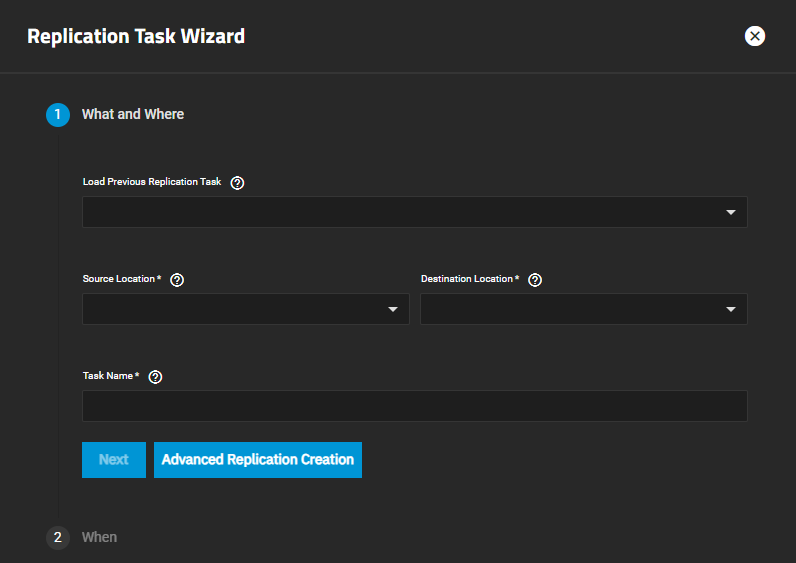
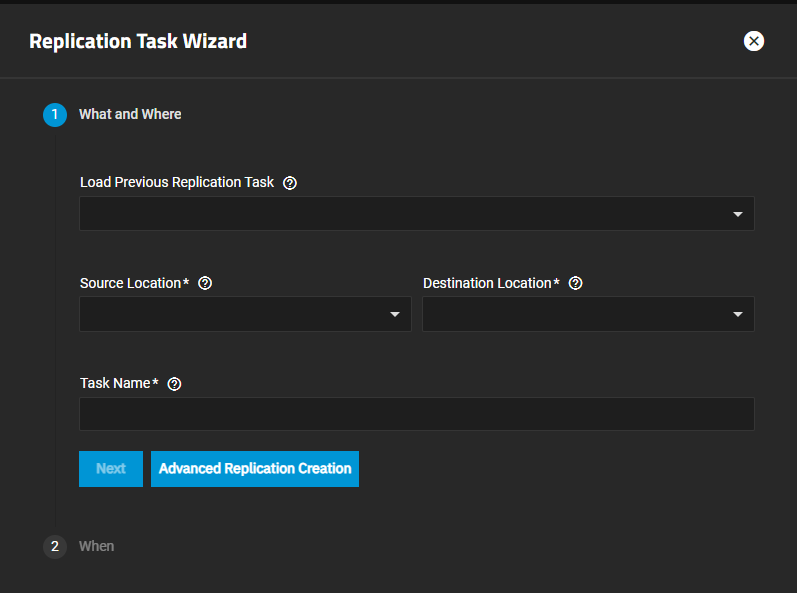
Update Replication Tasks UI Ref Article - Master
This PR updates and reorganizes the content in the ReplicationTasksScreens.md article.
It removes duplicated content and centralizes the Wizard What and Where settings in one table.
It updates and adds a few screenshots and compresses them.
These changes can be backported to 24.04

diff --git a/content/SCALE/SCALEUIReference/DataProtection/ReplicationScreensSCALE.md b/content/SCALE/SCALEUIReference/DataProtection/ReplicationScreensSCALE.md
@@ -1,6 +1,6 @@
 ---
 title: "Replication Task Screens"
-description: "Provides information on the Replication screens, wizard, and settings to add or edit replication tasks."
+description: "Provides information on the Replication screens, wizard, and settings used to add or edit replication tasks."
 weight: 100
 aliases: /scale/scaleuireference/dataprotection/replicationscreensscale/
 tags:
@@ -8,7 +8,8 @@ tags:
  - backup
 ---
 
-The **Replication Task** widget on the **Data Protection** screen lists replication tasks configured on the TrueNAS system. Replication tasks work with periodic snapshot tasks to complete the replication.
+The **Replication Task** widget on the **Data Protection** screen lists replication tasks configured on the TrueNAS system.
+Replication tasks work with periodic snapshot tasks to complete the replication.
 
 {{< trueimage src="/images/SCALE/DataProtection/ReplicationTasksWidget.png" alt="Replication Task Widget" id="Replication Task Widget" >}}
 
@@ -16,14 +17,11 @@ The **Replication Tasks** widget displays **No Replication Tasks configured** be
 
 {{< trueimage src="/images/SCALE/DataProtection/ReplicationTasksWidgetNoTasks.png" alt="Replication Task Widget No Tasks" id="Replication Task Widget No Tasks" >}}
 
-The **Replication Task** widget heading is a link that opens the **[Data Protection > Replications Tasks](#replication-tasks-list-screen)** list view screen.
+Click **Replication Task** on the widget heading to open the **[Replications Tasks](#replication-tasks-screen)** screen that lists all tasks configured on the system.
 
-**Add** opens the **[Add Replication Task](#add-replication-task-wizard)** wizard.
+**Add** on the **Replication Task** widget opens the **[Replication Task Wizard](#replication-task-wizard)**.
 
-Each replication task is a link to open the **[Edit Replication Task](#edit-replication-task-screen)** screen.
-
-The widget displays the status of a task as **PENDING**, **RUNNING**, **SUCCESS** or **FAILED**.
-Click on the status to open a **Logs** window where you can see details on the task and download the log file.
+The <span class="material-icons">edit</span> **Edit** icon opens the **[Edit Replication Task](#edit-replication-task-screen)** screen.
 
 The **[<span class="material-icons">play_arrow</span> Run Now](#run-now-option)** icon opens a dialog.
 
@@ -33,27 +31,30 @@ The **[<span class="iconify" data-icon="mdi:download"></span> Download encryptio
 
 The **[<span class="material-icons">delete</span> Delete](#delete-option)** icon  opens a delete confirmation dialog.
 
+**State** displays the status of the replication task as **SUCCESS** for completed tasks, **FAILED** if the task fails to complete the sync, and **PENDING** for tasks that have not run yet.
+Click on the state oval to open the **Logs** dialog for that task. **Download Logs** saves a copy of the current task logs.
+
 [Configure SSH]({{< relref "AddSSHConnectionKeyPair.md" >}}) in TrueNAS before creating a remote replication task. This ensures that new snapshots are regularly available for replication.
 
-## Replication Tasks List Screen
-The **Data Protection > Replications Tasks** list view screen displays the replication tasks configured on the system.
+## Replication Tasks Screen
+The **Replications Tasks** screen lists the replication tasks configured on the system.
 
 {{< trueimage src="/images/SCALE/DataProtection/ReplicationTasksListScreen.png" alt="Replication Task List" id="Replication Task List" >}}
 
 **Columns** displays a list of option to customize the list view to add or remove information to the table. Options are **Select All**, **Direction**, **Transport**, **SSH Connection**, **Source Dataset**, **Target Dataset**, **Recursive**, **Auto**, **Enabled**, **State**, **Last Snapshot**, and **Reset to Defaults**.
 
-If no tasks are configured on the system, this screen displays **Not Replication Tasks** and the option to **Add Replication Tasks** that opens the **Add Replication Task** wizard.
+Before adding replication tasks this screen displays **No Replication Tasks** and the **Add Replication Tasks** option that opens the **Replication Task Wizard**.
 
 {{< trueimage src="/images/SCALE/DataProtection/ReplicationTasksListNoTasks.png" alt="Replication Task No Tasks" id="Replication Task No Tasks" >}}
 
-Click anywhere on a task listed to expand the task and show details about that task and options to run, restore, edit or delete that task.
+Click anywhere on a task row to expand it and show details about that task and the options to run, restore, edit or delete that task.
 
 ### Replication Task Details
 The details view of each replication task shows the **Transport**, **SSH Connection**, **Source Dataset**, **Target Dataset**, **Recursive**, and **Auto** settings.
 
 {{< trueimage src="/images/SCALE/DataProtection/ReplicationTaskDetails.png" alt="Replication Task Details" id="Replication Task Details" >}}
 
-The <span class="material-icons">edit</span> **Edit** button opens the **[Edit Replication Task]()** screen.
+The <span class="material-icons">edit</span> **Edit** button opens the **[Edit Replication Task](#edit-replication-task-screen)** screen.
 
 ### Run Now Option
 The <span class="material-icons">play_arrow</span> **Run Now** button opens a **Run Now** dialog.
@@ -71,7 +72,7 @@ Enter a new name for the task and select the location to store the data, then cl
 The system creates the new file and displays the task on both the widget and list screen with the **PENDING** status.
 
 ### Download encryption keys Option
-When a replication task involves an key-encrypted source or destination, the <span class="iconify" data-icon="mdi:download"></span> icon appears in the task options.
+When a replication task involves a key-encrypted source or destination, the <span class="iconify" data-icon="mdi:download"></span> icon shows in the task options.
 This downloads any encryption keys to your local system.
 
 ### Delete Option
@@ -84,85 +85,62 @@ Click **Confirm** to activate **Delete**.
 ## Add Replication Task Options
 There are two ways to add a replication task, the wizard and the advanced creation screen.
 These two methods share many settings that are described below.
-Some settings shared by the wizard and the advanced creation screen display more related setting options.
 Shared settings are documented these sections:
 * **[Encryption](#encryption-setting-options)**
 * **[Also include snapshots with the name](#snapshot-naming-options)**
 * **[Schedule](#replication-schedule-options)**
 
-**Add**, or if no replication task exist, **Add Replication Tasks** open the wizard.
+**Add**, or if no replication task exist, **Add Replication Tasks** opens the wizard.
 
-## Add Replication Task Wizard
-The wizard has two screens.
-* **What and When** settings specify the task name, data source and destinations, the type of replication (local or remote), transport options (SSH connection).
-* **When** setting specify when to run the task.
+## Replication Task Wizard
+The wizard has two screens:
 
-**Advanced Replication Creation** on the **What and When** screen opens the advanced replication creation screen.
+* **What and Where** settings specify the task name, data source and destinations, the type of replication (local or remote), transport options (SSH connection).
+* **When** settings specify when to run the task and how long to retain the replicated snapshots.
 
-### What and When Wizard Screen
-The **What and When** screen options specify a previous replication task, source and destination information and a name for the task.
+**Advanced Replication Creation** opens the **Add Replication Task** screen with the same settings found in the wizard and more advanced settings.
 
-The **[Encryption](#encryption-setting-options)** option, used on both the replication task wizard and advanced creation screen, displays more options based on the selection made.
+### What and Where Wizard Screen
+The **What and Where** screen allows loading source and destination information from a previous task, setting the source and destination direction for the transfer and the datasets and directories to use, allows adding encryption and an SSH connection for remote replications, specifying the naming schema to use, and giving a name to the task.
 
-The **[Source Location](#source-and-destination-options)** and **[Destination Location](#destination-location-setting-options)** selections each display more options based on the selection made.
+The **[Encryption](#encryption-setting-options)** and **[SSH Connection](#ssh-settings)** options show when the source or destination is set to **On a Different System**.
+
+Settings change based on the **[Source Location](#source-and-destination-options)** and **[Destination Location](#destination-location-setting-options)** option selected. Options are, **On this System** (local replication) and **On a Different System** (remote replication).
 
 {{< include file="/static/includes/FileExplorerFolderIcons.md" >}}
 
-The **[SSH Connection](#ssh-settings)** option displays for both source and destination if the location setting is **On a Different System**.
+**[Also include snapshots with the name](#snapshot-naming-options)** options show different snapshots settings based on the naming option selected.
 
-The **[Also include snapshots with the name](#snapshot-naming-options)** options display in both the wizard and advanced creation screen but different replicating snapshots settings related to naming result in them displaying.
+{{< trueimage src="/images/SCALE/DataProtection/ReplicationWizardWhatAndWhere.png" alt="Replication Task Wizard What and When" id="Replication Task Wizard What and When" >}}
 
-{{< trueimage src="/images/SCALE/DataProtection/ReplicationWizardWhatAndWhere.png" alt="Add Replication Task Wizard What and When" id="Add Replication Task Wizard What and When" >}}
+Setting **Source Location** to **On This System** and **Destination Location** to **On a Different System** and making naming schema choices changes the the wizard screen to show all available settings.
+
+{{< trueimage src="/images/SCALE/DataProtection/ReplicationTaskWizardWhatAndWhereAllSettings.png" alt="Replication Task Wizard What and When All Settings" id="Replication Task Wizard What and When All Settings" >}}
 
 {{< expand "What and Where Settings" "v" >}}
 {{< truetable >}}
 | Setting | Description |
 |---------|-------------|
-| **Load Previous Replication Task** | Use settings from a saved replication. Selecting an existing snapshot populates the **Source Location**, **Destination Locations**, **Source**, and **Destination** fields with the locations of the snapshots. It also populates the **Task Name** field at the bottom of the screen with a name that is a combination of the source-destination for the selected task. |
-| **Source Location** | Select the storage location for the original replicated snapshots. Options are **On this System** or **On a Different System**. If set to **On a Different System**, the **Destination Location** changes to **On this System** and the **Destination** field displays the path to the snapshot location. For more information on these setting options see [Source Location Setting Options](#source-location-setting-options). |
-| **Destination Location** | Select the storage location for the replicated snapshots. ptions are **On this System** or **On a Different System**. If **Source Location** is set to **On a Different System**, the destination is automatically set to **On this System** and the **Destination** field displays. |
-| **Task Name** | Enter the name of this replication configuration. Populates with the source-destination names from the task selected in **Load Previous Replication Tasks**. |
-{{< /truetable >}}
-{{< /expand >}}
-
-#### Source Location Options
-Wizard screen settings change based on the option selected in **Source Location**.
-Selecting **On this system** displays the **Source** field with the option to browse to the dataset location, and the **Recursive** option.
-Selecting **On a Different System** displays the **Source** and the **Recursive** options.  It changes the **Destination Location** to **On this System**.
-It displays the **[Encryption](#encryption-setting-options)** option under **Destination**, adds **SSH Connections** to the source setting options, adds snapshot naming options, and the **SSH Transfer Security** options.
-
-{{< trueimage src="/images/SCALE/DataProtection/AddReplicationTaskSourceLocOnThisSystem.png" alt="Add Replication Task Wizard Source On This System" id="Add Replication Task Wizard Source On This System" >}}
-
-{{< expand "Source Location Settings" "v" >}}
-{{< truetable >}}
-| Setting | Description |
-|---------|-------------|
-| **Source** | Required. Enter or use <span class="material-icons">arrow_right</span> to the left of the **/mnt** folder and at each dataset to expand the dataset tree to browse to the dataset location that has snapshots to replicate. Click on the dataset or directory name, folder icon, or checkbox to select the dataset or directory. To enter multiple datasets, enter a comma (,) after each path in the **Source** field and then select another dataset or directory. Click the <span class="material-icons"><span class="material-icons">arrow_drop_down</span></span> at the **/mnt** folder to collapse the dataset tree. |
-| **SSH Connection** | Select an existing SSH connection to a remote system or select **Create New** to open the **Create SSH Connection** window to configure a new SSH connection. |
+| **Load Previous Replication Task** | Loads settings from a saved replication. Select an existing snapshot to populate the **Source Location**, **Destination Locations**, **Source**, and **Destination** fields. Also populates **Task Name** with a name that is a combination of the source-destination for the selected task. |
+| **Source Location** | Select the storage location of the original replicated snapshots. Options are:<br><li>**On this System** (local replication) - Allows setting **On a Different System** to a local or remote destination. <br><li>**On a Different System** (remote replication) - When set to **On a Different System**, the **Destination Location** automatically changes to **On this System** and the **Destination** field displays the path to the snapshot location. For more information on these setting options see [Source Location Setting Options](#source-location-setting-options).</li> |
+| **Source** | (Required) Enter or use <span class="material-icons">arrow_right</span> to the left of the **/mnt** folder and at each dataset to expand the dataset tree and browse to the dataset location with the snapshots to replicate. Click on the dataset or directory name, folder icon, or checkbox to select the dataset or directory. To enter multiple datasets, enter a comma (,) after each path in the **Source** field and then select another dataset or directory. Click the <span class="material-icons"><span class="material-icons">arrow_drop_down</span></span> at the **/mnt** folder to collapse the dataset tree. |
+| **Destination Location** | Select the storage location for the replicated snapshots. Options are **On this System** or **On a Different System** but if **Source** is set to **On a Different System**, the **Destination Location** automatically changes to **On this System** and the **Destination** field displays. |
+| **Destination** | (Required) Enter or use <span class="material-icons">arrow_right</span> to the left of the **/mnt** folder and at each dataset to expand the dataset tree and browse to the dataset location with the snapshots to replicate. Click on the dataset or directory name, folder icon, or checkbox to select the dataset or directory. To enter multiple datasets, enter a comma (,) after each path in the **Destination** field and then select another dataset or directory. Click the <span class="material-icons"><span class="material-icons">arrow_drop_down</span></span> at the **/mnt** folder to collapse the dataset tree. |
+| **SSH Connection** | Select an existing SSH connection to a remote system or select **Create New** to open the **New SSH Connection** window to configure the new SSH connection settings. Shows the **Use Sudo for ZFS Commands** dialog to enable sudo for SSH sessions. |
+| **Use Sudo For Zfs Commands** | Select if setting up remote replication tasks when logged in as an admin user. |
+| **SSH Transfer Security** | Shows after selecting **Replicate Custom Snapshots**. Applies data transfer security. Shows two options: **Encryption (more secure, but slower)** and **No Encryption (less secure, but faster)**. The connection is authenticated with SSH. Encryption is recommended, but can be disabled for increased speed on secure networks. |
 | **Recursive** | Select to also replicate all snapshots contained within the selected source dataset snapshots. Leave clear to only replicate the selected dataset snapshots. |
-| **Replicate Custom Snapshots** | Select to replicate snapshots that are not created by an automated snapshot task. Requires setting a naming schema for the custom snapshots. Displays the **[Also include snapshots with the name](#snapshot-naming-options)** radio buttons and fields. |
-{{< /truetable >}}
-{{< /expand >}}
-
-#### Destination Location Options
-Wizard screen settings change based on the option selected in **Destination Location** and in the **[Source Location](#source-location-setting-options)** fields.
-Selecting **On this System** in **Destination Location** displays the **Destination** field with the option to browse to the dataset location and **[Encryption](#encryption-setting-options)** option under **Destination**.
-Selecting **On a Different System** displays the **SSH Connections** and **SSH Transfer Security** options.
-
-{{< trueimage src="/images/SCALE/DataProtection/AddReplicationTaskDestinationLocOnThisSystem.png" alt="Add Replication Task Wizard Destination On This System" id="Add Replication Task Wizard Destination On This System" >}}
-
-{{< expand "Destination Location Settings" "v" >}}
-{{< truetable >}}
-| Setting | Description |
-|---------|-------------|
-| **Destination** | Required. Enter or use <span class="material-icons">arrow_right</span> to the left of the **/mnt** folder and at each dataset to expand the dataset tree to browse to the dataset location that has snapshots to replicate. Click on the dataset or directory name, folder icon, or checkbox to select the dataset or directory. To enter multiple datasets, enter a comma (,) after each path in the **Destination** field and then select another dataset. Click the <span class="material-icons"><span class="material-icons">arrow_drop_down</span></span> at the **/mnt** folder to collapse the dataset tree. |
-| **Encryption** | Select to use encryption when replicating data. For more information on all options see [Encryption](#encryption-setting-options). |
+| **Replicate Custom Snapshots** | Shows after setting **Source Location** to **On this System**. Select to replicate snapshots that are not created by an automated snapshot task. After selecting, shows the **Also include snapshots with the name** setting options. This setting requires setting a naming schema for the custom snapshots through one of the two methods. |
+| **Also include snapshots with the name** | Select the option to set the snapshot naming pattern to naming schema or regular expression. Options are:<br><li> **Naming Schema** - Select to use naming schema and display the **Naming Schema** field <br><li> **Snapshot Name Regular Expression** - Select to use regular expression and display the **Snapshot Name Regular Expression** field. |
+| **Naming Schema** | Shows after selecting **Naming Schema** under **Also include snapshots with the name**. Enter the pattern of naming custom snapshots to replicate. Enter the name and [strftime(3)](https://man7.org/linux/man-pages/man3/strftime.3.html) %Y, %m, %d, %H, and %M strings that match the snapshots to include in the replication. Separate entries by pressing <kbd>Enter</kbd>. The number of snapshots matching the patterns display on the screen. |
+| **Snapshot Name Regular Expression** | Shows after selecting **Snapshot Name Regular Expression** under **Also include snapshots with the name**. Enter the regular expression the replicated snapshot(s) should match. This option replicates all snapshots with names matching the specified regular expression. This option slows regular performance on the systems with large number of snapshots as the process reads snapshots metadata in order to determine snapshots creation order. |
+| **Encryption** | Select to apply an extra layer of encryption when replicating data. For more information on all options see [Encryption](#encryption-setting-options). |
+| **Task Name** | Use the name the system adds when the sourse and destination options are set or enter a name for this replication configuration and to overwrite the automatically populated task name. By default, the system populates **Task Name** with the source-destination names selected or loaded by selecing a task in **Load Previous Replication Tasks**. |
 {{< /truetable >}}
 {{< /expand >}}
 
 #### Encryption Options
-These setting options display on the **Add Replication Task** wizard **What and Where** screen after selecting the **Destination Location**, and on the advanced creation **Add Replication Task** screen in the **Destination** settings.
-After selecting **Encryption** more setting options display.
+The **Encryption** option shows additional settings on the **Add Replication Task** screen and the **What and Where**  wizard screen below the **Destination** settings.
 
 {{< trueimage src="/images/SCALE/DataProtection/AddReplicationTaskEncyptionHexOption.png" alt="Add Replication Task Wizard Hex Encryption" id="Add Replication Task Wizard Hex Encryption" >}}
 
@@ -170,7 +148,7 @@ After selecting **Encryption** more setting options display.
 {{< truetable >}}
 | Setting | Description |
 |---------|-------------|
-| **Encryption** | Select to use encryption when replicating data. Displays the **Encryption Key Format** and **Store Encryption key in Sending TrueNAS database** options. |
+| **Encryption** | Select to apply an extra layer of encryption when replicating data to a remote server. Shows additional encryption settings. the **Encryption Key Format** and **Store Encryption key in Sending TrueNAS database** options. |
 | **Inherit Encryption** | Select for the target dataset to inherit encryption from its parent dataset. |
 | **Encryption Key Format** | Select the encryption option from the dropdown list. **Hex** (base 16 numeral) or **Passphrase** (alphanumeric) style encryption key. Selecting **Hex** displays the **Generate Encryption Key** option. Selecting **Passphrase** displays the **Passphrase** option. |
 | **Generate Encryption Key** | Displays after selecting **Hex** in **Encryption Key Format**. Displays selected by default. Clearing the checkbox displays the **Encryption Key** field. |
@@ -181,32 +159,18 @@ After selecting **Encryption** more setting options display.
 {{< /truetable >}}
 {{< /expand >}}
 
-#### SSH Options
-Setting the source and/or destination location options to **On a Different System** displays more SSH setting options for whichever location has this setting.
+#### New SSH Connection
+The **New SSH Connection** window opens after selecting **Create New** in the **SSH Connection** field.
+It allows you to set up a new SSH connection for the remote system.
 
-{{< trueimage src="/images/SCALE/DataProtection/AddReplicationTaskSSHOptions.png" alt="Add Replication Task Wizard SSH Options" id="Add Replication Task Wizard SSH Options" >}}
+{{< trueimage src="/images/SCALE/DataProtection/ReplicationTaskNewSSHConnection.png" alt="New SSH Connection" id="New SSH Connection" >}}
 
-{{< expand "SSH Settings" "v" >}}
-{{< truetable >}}
-| Setting | Description |
-|---------|-------------|
-| **SSH Connection** | Select an existing SSH connection to a remote system or select **Create New** to open the **[Create SSH Connection](#create-ssh-connection)** window to configure a new SSH connection. |
-| **SSH Transfer Security** | Provides the data transfer security. SSH authenticates the connection. Encryption is recommended but can be disabled for increased speed on more secure network. Select the radio button below to set the level of security for data transfer. Select **Encryption (more secure, but slower)** to use encryption over the SSL connection, or **No Encryption (less secure, but faster)** to not encrypt data transferred over the SSL connection. |
-| **Use Sudo For Zfs Commands** | Select if setting up remote replication tasks when logged in as an admin user. |
-{{< /truetable >}}
-{{< /expand >}}
-
-#### Create SSH Connection
-This window allows you to set up a new SSH connection for the remote system.
-
-{{< trueimage src="/images/SCALE/DataProtection/ReplicationWizardCreateSSHConnection.png" alt="Create SSH Connection" id="Create SSH Connection" >}}
-
-{{< expand "Create SSH Connection Settings" "v" >}}
+{{< expand "New SSH Connection Settings" "v" >}}
 {{< truetable >}}
 | Setting | Description |
 |---------|-------------|
 | **Name** | Required. Enter a unique name for this SSH connection. |
-| **Setup Method** | Select how to configure the connection from the dropdown list. Select **Manual** to configure authentication on the remote system. This option can include copying SSH keys and modifying the root user account on that system. Select **Semi-Automatic** when configuring an SSH connection with a remote TrueNAS system. This method uses the URL and login credentials of the remote system to connect with and exchange SSH keys. This option only works when the other system is a TrueNAS system. |
+| **Setup Method** | Select how to configure the connection from the dropdown list. Options are: <br><li>**Manual** - Select to configure authentication on the remote system. This option can include copying SSH keys and modifying the root user account on that system.<br><li>**Semi-Automatic** - Select when configuring an SSH connection with a remote TrueNAS system. This method uses the URL and login credentials of the remote system to connect with and exchange SSH keys. This option only works when the other system is a TrueNAS system.</li> |
 | **TrueNAS URL** | Ener the host name or IP address of the remote system. A valid URL scheme is required. For example, *https://10.235.12.20*. |
 | **Admin Username** | Enter the user name for logging into the remote system via the UI. |
 | **Admin Password** | Enter the password for logging into the remote system. |
@@ -217,28 +181,12 @@ This window allows you to set up a new SSH connection for the remote system.
 {{< /truetable >}}
 {{< /expand >}}
 
-#### Snapshot Naming Options
-**Also include snapshots with the name** radio button options set the snapshot naming pattern as schema or regular expression. This field display on both the wizard and advanced creation screens, but the radio buttons have different names. See [Various Snapshot Options](#various-snapshot-options) below for details.
-**Also include snapshots with the name** radio button options display after selecting **On a Different System** as either the **Source Location** or **Destination Location** or after selecting **Replicate Custom Snapshots**.
-
-{{< trueimage src="/images/SCALE/DataProtection/AddReplicationTaskSnapshotOptions.png" alt="Add Replication Task Snapshot Options" id="Add Replication Task Snapshot Options" >}}
-
-{{< expand "Snapshot Naming Settings" "v" >}}
-{{< truetable >}}
-| Setting | Description |
-|---------|-------------|
-| **Naming Schema** | Select to use naming schema and display the **Naming Schema** field below the radio buttons. |
-| **Snapshot Name Regular Expression** | Select to use regular expression and display the **Snapshot Name Regular Expression** field below the radio buttons. |
-| **Naming Schema** | Enter the pattern of naming custom snapshots to replicate. Enter the name and [strftime(3)](https://man7.org/linux/man-pages/man3/strftime.3.html) %Y, %m, %d, %H, and %M strings that match the snapshots to include in the replication. Separate entries by pressing <kbd>Enter</kbd>. The number of snapshots matching the patterns display on the screen. |
-| **Snapshot Name Regular Expression** | Enter the regular expressions snapshot should match. Using this option replicates all snapshots which names match specified regular expression. This option slows regular performance on the systems with large number of snapshots as the process reads snapshots metadata in order to determine snapshots creation order. |
-{{< /truetable >}}
-{{< /expand >}}
-
 ### When Wizard Screen
-The **Replication Schedule** and **Destination Snapshot Lifetime** radio button selection changes the setting options displayed.
+The **When** wizard screen sets the schedule for running the task and the retention period for keeping the replicated snapshots.
+**Replication Schedule** and **Destination Snapshot Lifetime** options change the setting displayed on the screen.
 
 #### Replication Schedule Options
-The **Replication Schedule** radio button options set the task to run on the schedule defined in **Schedule** or one time. Each radio button changes options displayed on the screen.
+The **Replication Schedule** options set when to run the task based on the schedule defined in **Schedule** or to run it one time.
 
 {{< trueimage src="/images/SCALE/DataProtection/ReplicationWizardWhen.png" alt="Add Replication Task When Run on Schedule" id="Add Replication Task When Run on Schedule" >}}
 
@@ -254,7 +202,7 @@ The **Replication Schedule** radio button options set the task to run on the sch
 {{< /expand >}}
 
 #### Destination Snapshot Lifetime Options
-The radio buttons change settings displayed. Select when replicated snapshots are deleted from the destination system. Options are the three radio buttons below. Select **Same as Source** to use the configured snapshot Lifetime value from the source dataset periodic snapshot task. Select **Never Delete** to never delete snapshots from the destination system. Select **Custom** to define how long the snapshot remains on the destination system.
+The **Destination Snapshot Lifetime** setting determines how long the replicated snapshot is retained on the destination server. 
 
 {{< trueimage src="/images/SCALE/DataProtection/AddReplicationTaskWhenRunOnceCustomLifetime.png" alt="Add Replication Task When Custom Lifetime" id="Add Replication Task When Custom Lifetime" >}}
 
@@ -271,15 +219,8 @@ The radio buttons change settings displayed. Select when replicated snapshots ar
 {{< /expand >}}
 
 ## Add Replication Task Screen
-**Advanced Replication Creation** changes to the advanced **Add Replication Task** configuration screen. Click before or after adding values to any setting on the **What and When** wizard screen.
-**Advanced Replication Creation** on the **What and Where** wizard screen opens the **Add Replication Task** screen with advanced setting options.
+**Advanced Replication Creation** opens the **Add Replication Task** screen. Click before or after adding values to any setting on the wizard screens.
 
-{{< hint type=tip >}}
-Before adding a replication task, create an SSH connection to use when connecting to a remote system.
-The **Add Replication Task** wizard provides the option to configure a new SSH connection when adding the task but the advanced creation screen does not.
-
-If adding a local replication task, where you replicate data from one pool and dataset to different pool and dataset on the same system, the SSH connection is not a required element.
-{{< /hint >}}
 ### General and Transport Options Settings
 The settings in **General** and **Transport Options** specify the name of the task, the direction of the data transfer, the transport connection type and method settings for each type.
 The **Transport** setting changes options displayed in the **Transport Options** area (**SSH** is the default setting).
@@ -291,9 +232,9 @@ All three **Transport** field options share the two settings displayed for **Loc
 {{< truetable >}}
 | Setting | Description |
 |---------|-------------|
-| **Name** | Required. Enter a descriptive name for the replication. |
+| **Name** | (Required) Enter a descriptive name for the replication. |
 | **Direction** | Select the direction for the replication from the dropdown list. **Push** sends snapshots to a destination system. **Pull** connect to a remote system and retrieves snapshots matching the value specified in **Naming Schema**. |
-| **Transport** | Select the method of connecting to a remote system for exchanging data from the dropdown list. **SSH** is the supported by most systems. It requires a previously created SSH connection on the system. **SSH+NETCAT** uses SSH to establish a connection to the destination system, then uses [py-libzfs](https://github.com/truenas/py-libzfs) to send an unencrypted data stream for higher transfer speeds. This only works when replicating to a FreeNSAS, TrueNAS, or other system with py-libzfs installed. **LOCAL** efficiently replicates snapshots to another dataset on the same system without using the network. **Legacy** uses the legacy replication engine from FreeNAS 11.2 and earlier. |
+| **Transport** | Select the method of connecting to a remote system for exchanging data from the dropdown list.<br><li> **SSH** is the supported by most systems. It requires a previously created SSH connection on the system. <br><li>**SSH+NETCAT** uses SSH to establish a connection to the destination system, then uses [py-libzfs](https://github.com/truenas/py-libzfs) to send an unencrypted data stream for higher transfer speeds. This only works when replicating to a FreeNSAS, TrueNAS, or other system with py-libzfs installed. <br><li>**LOCAL** efficiently replicates snapshots to another dataset on the same system without using the network. **Legacy** uses the legacy replication engine from FreeNAS 11.2 and earlier.</li> |
 | **Use Sudo For Zfs Commands** | Select if setting up remote replication tasks when logged in as an admin user. |
 | **Number of retries for failed replications** | Enter the number of times the replication is attempted before stopping and marking the task as failed. |
 | **Logging Level** | Select the level of message verbosity in the replication task log from the dropdown list. Options are **Default**, **Debug**, **Info**, **Warning**, and **Error**. |
@@ -358,7 +299,7 @@ The Source setting options change based on selections made in **Recursive** and 
 {{< truetable >}}
 | Setting | Description |
 |---------|-------------|
-| **Source** | Required. Enter or use <span class="material-icons">arrow_right</span> to the left of the **/mnt** folder and at each dataset to expand the dataset tree to browse to the dataset location that has snapshots to replicate. Click on the dataset or directory name, folder icon, or checkbox to select the dataset or directory. To enter multiple datasets, enter a comma (,) after each path in the **Source** field and then select another dataset. Click the <span class="material-icons"><span class="material-icons">arrow_drop_down</span></span> at the <span class="material-icons">folder</span>**/mnt** to collapse the dataset tree. |
+| **Source** | (Required) Enter or use <span class="material-icons">arrow_right</span> to the left of the **/mnt** folder and at each dataset to expand the dataset tree to browse to the dataset location that has snapshots to replicate. Click on the dataset or directory name, folder icon, or checkbox to select the dataset or directory. To enter multiple datasets, enter a comma (,) after each path in the **Source** field and then select another dataset. Click the <span class="material-icons"><span class="material-icons">arrow_drop_down</span></span> at the <span class="material-icons">folder</span>**/mnt** to collapse the dataset tree. |
 | **Recursive** | Select to replicate all child dataset snapshots. When selected, **Exclude Child Datasets** displays. |
 | **Exclude Child Datasets** | Displays after selecting **Recursive**. Enter the specific child dataset snapshots from the replication. Separate each entry by pressing <kbd>Enter</kbd>.  |
 | **Include Dataset Properties** | Select to include dataset properties with the replicated snapshots. |
@@ -378,7 +319,7 @@ The destination setting options change based on selections made in **Encryption*
 {{< truetable >}}
 | Setting | Description |
 |---------|-------------|
-| **Destination** | Required. Enter or use <span class="material-icons">arrow_right</span> to the left of the **/mnt** folder and at each dataset to expand the dataset tree to browse to the dataset location that has snapshots to replicate. Click on the dataset or directory name, folder icon, or checkbox to select the dataset or directory. Selecting a location defines the full path to that location as the destination. Appending a name to the path creates a new zvol at that location. For example, selecting *pol1/dataset1* stores snapshots in *dataset 1*, but adding */zvol1* after *dataset*1 creates *zvol1* for snapshot storage. Click the <span class="material-icons"><span class="material-icons">arrow_drop_down</span></span> at the **/mnt** folder to collapse the dataset tree. |
+| **Destination** | (Required) Enter or use <span class="material-icons">arrow_right</span> to the left of the **/mnt** folder and at each dataset to expand the dataset tree to browse to the dataset location that has snapshots to replicate. Click on the dataset or directory name, folder icon, or checkbox to select the dataset or directory. Selecting a location defines the full path to that location as the destination. Appending a name to the path creates a new zvol at that location. For example, selecting *pol1/dataset1* stores snapshots in *dataset 1*, but adding */zvol1* after *dataset*1 creates *zvol1* for snapshot storage. Click the <span class="material-icons"><span class="material-icons">arrow_drop_down</span></span> at the **/mnt** folder to collapse the dataset tree. |
 | **Destination Dataset Read-Only Policy** | Select the policy from the dropdown list. Options are:<br><li>**Set** that changes all destination datasets to `readonly=on` after finishing the replication.<br><li> **Require** stops replication unless all existing destination datasets have the property `readonly=on`.<br><li> **Ignore** disables checking the `readonly` property during replication.</li> |
 | **Encryption** | Select to use encryption when replicating data. For more information on all options see [Encryption](#encryption-setting-options). |
 | **Replication from scratch** | Select if the destination system has snapshots but they do not have any data in common with the source snapshot, destroy all data destination snapshots and do a full replication. WARNING! Enabling this option can cause data loss or excessive data transfer if the replication is misconfigured. |
@@ -411,7 +352,7 @@ The snapshot settings below change options displayed based on selections made.
 {{< /expand >}}
 
 ### Replication Schedule Advanced Options
-These schedule setting options are common to both the **Add Replication Task** wizard **When** and the advanced creation **Add Replication Task** screens.
+These schedule setting options are common to both the **Replication Task Wizard** and **Add Replication Task** screens.
 
 {{< trueimage src="/images/SCALE/DataProtection/AdvancedAddReplicationTaskScheduleOptions.png" alt="Advanced Add Replication Task Schedule" id="Advanced Add Replication Task Schedule" >}}
 
